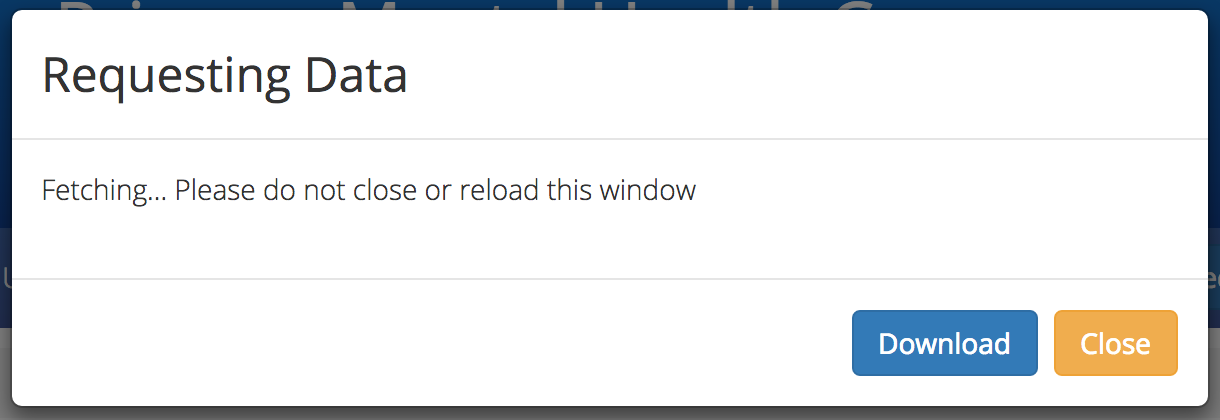
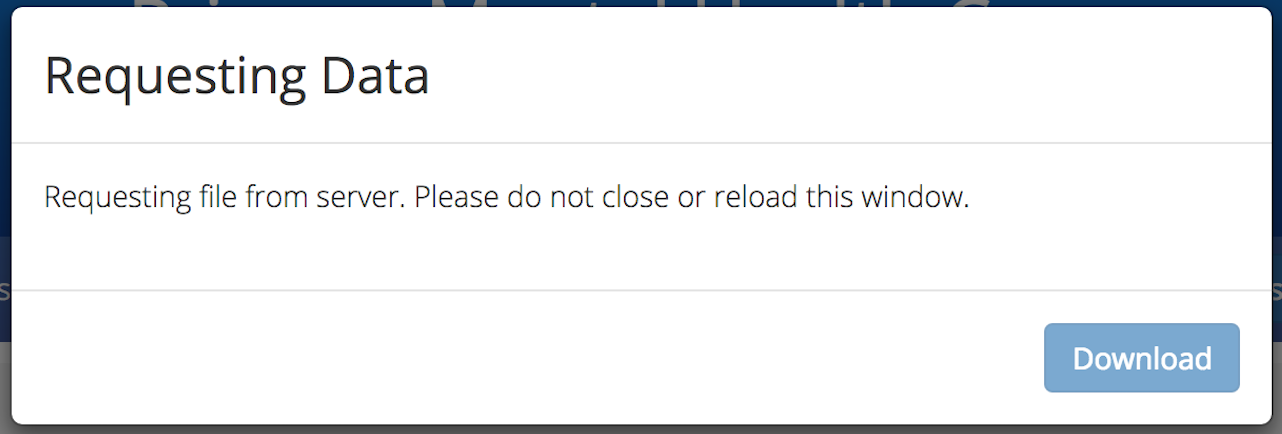
Data Extract - download popup
New images of the pop up request

diff --git a/doc/user-documentation/data-extraction.rst b/doc/user-documentation/data-extraction.rst
@@ -53,9 +53,13 @@ the Download Data fields in the Data Extraction tab, by following these steps:
 
 7. Click the blue 'Request' button.
 8. A dialogue box will be displayed, showing that the file is being requested from the server.
-9. When the file is ready, a 'File ready for download' message will be displayed.
 
 .. figure:: screen-shots/requesting-data.png
+   :alt: PMHC MDS File Selected
+
+9. When the file is ready, a 'File ready for download' message will be displayed.
+
+.. figure:: screen-shots/download-data.png
    :alt: PMHC MDS File Selected
 
 10. Click the blue 'Download' button.
